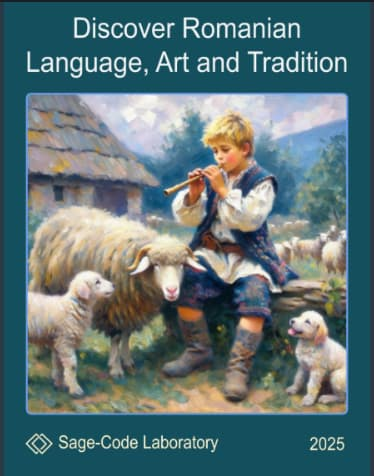
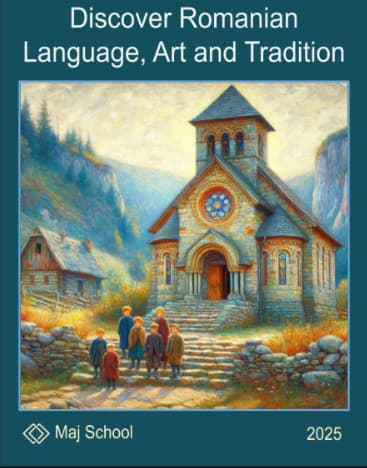
books for romanian

diff --git a/roadmap/romanian/index.html b/roadmap/romanian/index.html
@@ -158,6 +158,46 @@
     </div>
   </main>
 
+  <div class="alert alert-info">We offer books on our shops. This is the first Romanian book. Pay what you want and download. Your contribution will help our mentors to create new books. If you create a Romanian book we help you to promote your book here. There are 3 slots available.</div>
+  <div class="container mt-5">
+    <div class="row">
+        <div class="col-lg-3 col-md-6 col-sm-12 mb-4">
+            <div class="book-card">
+                <img src="./img/discover-romanian.jpg" alt="Book 1 Cover" class="img-fluid">
+                <p class="card-text">Fundamental coding concepts step by step.</p>
+                <a href="https://ko-fi.com/s/e7f33ca7d5" class="btn btn-primary btn-sm text-center" target="_blank">Download Manual</a>
+            </div>
+        </div>
+    </div>
+    <div class="row">
+        <div class="col-lg-3 col-md-6 col-sm-12 mb-4">
+            <div class="book-card">
+                <img src="./img/discover-romanian.jpg" alt="Book 1 Cover" class="img-fluid">
+                <p class="card-text">Fundamental coding concepts step by step.</p>
+                <a href="https://ko-fi.com/s/e7f33ca7d5" class="btn btn-primary btn-sm text-center" target="_blank">Download Manual</a>
+            </div>
+        </div>
+    </div>
+    <div class="row">
+        <div class="col-lg-3 col-md-6 col-sm-12 mb-4">
+            <div class="book-card">
+                <img src="./img/discover-romanian.jpg" alt="Book 1 Cover" class="img-fluid">
+                <p class="card-text">Fundamental coding concepts step by step.</p>
+                <a href="https://ko-fi.com/s/e7f33ca7d5" class="btn btn-primary btn-sm text-center" target="_blank">Download Manual</a>
+            </div>
+        </div>
+    </div>
+    <div class="row">
+        <div class="col-lg-3 col-md-6 col-sm-12 mb-4">
+            <div class="book-card">
+                <img src="./img/discover-romanian.jpg" alt="Book 1 Cover" class="img-fluid">
+                <p class="card-text">Fundamental coding concepts step by step.</p>
+                <a href="https://ko-fi.com/s/e7f33ca7d5" class="btn btn-primary btn-sm text-center" target="_blank">Download Manual</a>
+            </div>
+        </div>
+    </div>
+  </div>
+
   <footer class="footer copyright mt-5">
     <p class="x-small text-secondary mb-0">&copy; 2026 Sage-Code Laboratory</p>
   </footer>

diff --git a/roadmap/cse/index.html b/roadmap/cse/index.html
@@ -208,8 +208,9 @@ Engineering is the art of problem-solving. Think of it as building with digital 
 <script src="/assets/js/roadmap.js" defer></script>
 
 <h2>Engineering Books</h2>
+
 <p>
-In case you want to study more, download some PDF books. We have created a selection of engineering books, available on Ko-Fi shop. You can read these books on any device that can display PDF. The books are not free, but you can pay what you want. We appreciate every dollar you spend to support our effort. 
+Elucian use AI to created e-books for download. A selection of engineering books is available on Ko-Fi shop for download. You can read these books on any device that can display PDF. Price of these books is intentionally very low, you can pay what you want. Every dollar spent will support our effort to create new books. 
 </p>
 
 <!-- A row of books-->
